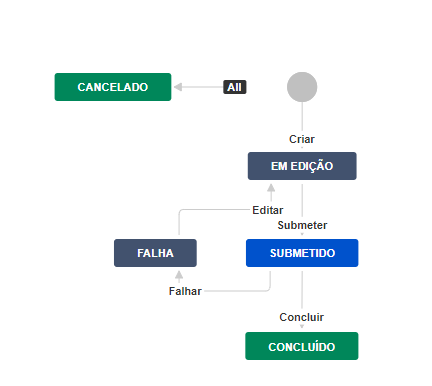
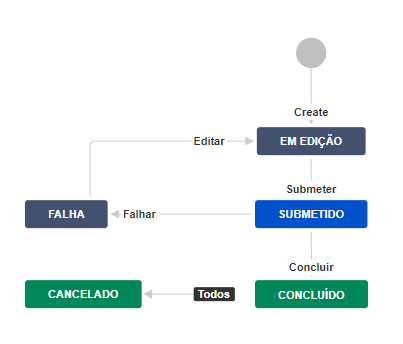
doc/printscreen

diff --git a/doc/README-Config-Jira.md b/doc/README-Config-Jira.md
@@ -7,7 +7,8 @@ Guia de Configuração da ferramenta Jira para o projeto [Jira RPA aaS](../READM
 
 * [Passo a Passo](#1-passo-a-passo)
   * [Criar Projeto](#11-criar-projeto)
-  * [Configurar Tipos de Ocorrências para as pendências do projeto](#12-configurar-tipos-de-ocorrências-para-as-pendências-do-projeto)
+  * [Configurar Tipos de Ocorrências](#12-configurar-tipos-de-ocorrências-para-as-pendências-do-projeto)
+  * [Configurar Fluxo de Trabalho](#13-configurar-fluxo-de-trabalho-para-as-pendências-do-projeto)
 
 ---
 
@@ -56,10 +57,65 @@ Guia de Configuração da ferramenta Jira para o projeto [Jira RPA aaS](../READM
 
 ![Config-Jira-AdminPendenciaConfigurarEsquemaDeTipoDeOcorrencia-01.png](printscreen/Config-Jira-AdminPendenciaConfigurarEsquemaDeTipoDeOcorrencia-01.png)
 
-* Na página de `Configurações do Pendências` no sub-menu `Esquemas de Tipos de Ocorrências` na aba `Modify Esquema de Tipo de Item` arrastar e soltar nas lista `Tipos de Itens para o actual regime` e  `Disponível Tipo de Itens` de forma que ao final sobre apenas o tipo de item `RPA` na lista `Tipos de Itens para o actual regime`. Em seguida clique no botão `Salvar`	
+* Na página de `Configurações do Pendências` no sub-menu `Esquemas de Tipos de Ocorrências` na aba `Modify Esquema de Tipo de Item` arrastar e soltar nas lista `Tipos de Itens para o actual regime` e  `Disponível Tipo de Itens` de forma que ao final sobre apenas o tipo de item `RPA` na lista `Tipos de Itens para o actual regime`. Em seguida clique no botão `Salvar`    
 
 ![Config-Jira-AdminPendenciaConfigurarEsquemaDeTipoDeOcorrencia-02.png](printscreen/Config-Jira-AdminPendenciaConfigurarEsquemaDeTipoDeOcorrencia-02.png)
 ![Config-Jira-AdminPendenciaConfigurarEsquemaDeTipoDeOcorrencia-03.png](printscreen/Config-Jira-AdminPendenciaConfigurarEsquemaDeTipoDeOcorrencia-03.png)
+
+
+## 1.3. Configurar Fluxo de Trabalho para as pendências do projeto
+
+* No menu superior principal clique no link do item de menu `Administração >> Pendências`
+* Na página de `Administração` na aba `Pendências` observar os itens do `sub-menu de Configurações de Pendências`
+* Na página de `Configurações do Pendências` clicar no item do sub-menu `Fluxos de Trabalho`
+* Na página de `Administração` no sub-menu `Fluxos de Trabalhos` clicar no link `Editar` na linha relacionada ao projeto `Software Simplified Workflow for Project RPA`
+
+![Config-Jira-AdminPendenciaConfigurarWorkflow-01.png](printscreen/Config-Jira-AdminPendenciaConfigurarWorkflow-01.png)
+
+
+* Na página de `Administração` no sub-menu `Fluxos de Trabalhos`
+  * Clicar no botão `Diagrama` para ativar a edição do fluxo de trabalho de forma gráfica em um diagrama
+  * Clicar no checkbox `Mostrar rótulos de transição` para mostrar rótulos na forma gráfica em um diagrama
+  * Remover todos os estados existentes que foram herdados do tipo padrão do projeto: Ex: `TO DO`, `IN PROGRESS`, `IN REVIEW`, `DONE`
+  * Criar a seguinte lista de estados com as seguintes propriedades de atributos:
+    * `EM EDIÇÃO`: Categoria `Pendências` 
+    * `SUBMETIDO`: Categoria `Em andamento`
+    * `CONCLUÍDO`: Categoria `Concluído` 
+    * `FALHA`: Categoria `Pendências`
+    * `CANCELADO`: Categoria `Concluído` 
+  * Criar as seguintes transiçõe de estados:
+    * Do estado: `qualquer estado` - Para o estado: `CANCELADO` - Nome: `Cancelar` - Tela: `Nenhum`
+    * Do estado: `EM EDIÇÃO` - Para o estado: `SUBMETIDO` - Nome: `Submeter` - Tela: `Nenhum`
+    * Do estado: `SUBMETIDO` - Para o estado: `CONCUÍDO` - Nome: `Concluir` - Tela: `Nenhum`
+    * Do estado: `FALHA`` - Para o estado: `EM EDIÇÃO` - Nome: `Editar` - Tela: `Nenhum`
+  * Clicar no botão `Publicar` para salvar o seu rascunho como alteração definitiva
+  * Na caixa de diálogo `Publicar Rascunho do Fluxo de Trabalho` escolher a opção `Salvar uma cópia backup - Não` e em seguida clicar no botão `Publicar`
+
+
+## 1.4. Configurar Campos Customizados para as pendências do projeto
+
+* No menu superior principal clique no link do item de menu `Administração >> Pendências`
+* Na página de `Administração` na aba `Pendências` observar os itens do `sub-menu de Configurações de Pendências`
+* Na página de `Configurações do Pendências` clicar no item do sub-menu `Campos Personalizados`
+* Na página de `Administração` no sub-menu `Campos Personalizados` clicar no botão `Adicionar campo personalizado` para criar os seguintes campos:
+  * `Qtde Submetido`: Tipo `Numérico`
+  * `Data Submetido`: Tipo `Date Time Picker`
+  * `Data Concluido`: Tipo `Date Time Picker`
+  * `Data Falha`: Tipo `Date Time Picker`
+  * `Data Cancelamento`: Tipo `Date Time Picker`
+
+![Config-Jira-AdminPendenciaConfigurarCamposCustomizados-01.png](printscreen/Config-Jira-AdminPendenciaConfigurarCamposCustomizados-01.png)
+
+* No menu superior principal clique no link do item de menu `Administração >> Projetos`
+  * Na página de `Administração` na aba `Projetos` clicar no link com o nome do projeto `RPA`
+
+![Config-Jira-AdminProjetoListarProjetos-01.png](printscreen/Config-Jira-AdminProjetoListarProjetos-01.png)
+
+* Na página de `Configurações Projeto` clicar no item do sub-menu `Reindexar Projeto`
+  *  Em seguida, confirmar no botão `Iniciar a reindexação`
+  *  Aguardar ate aparecer o botão `Finalizar`, quando aparecer clicar no botão `Finalizar`
+
+![Config-Jira-AdminProjetoConfigProjeto-01.png](printscreen/Config-Jira-AdminProjetoConfigProjeto-01.png)
 
 
 ---
